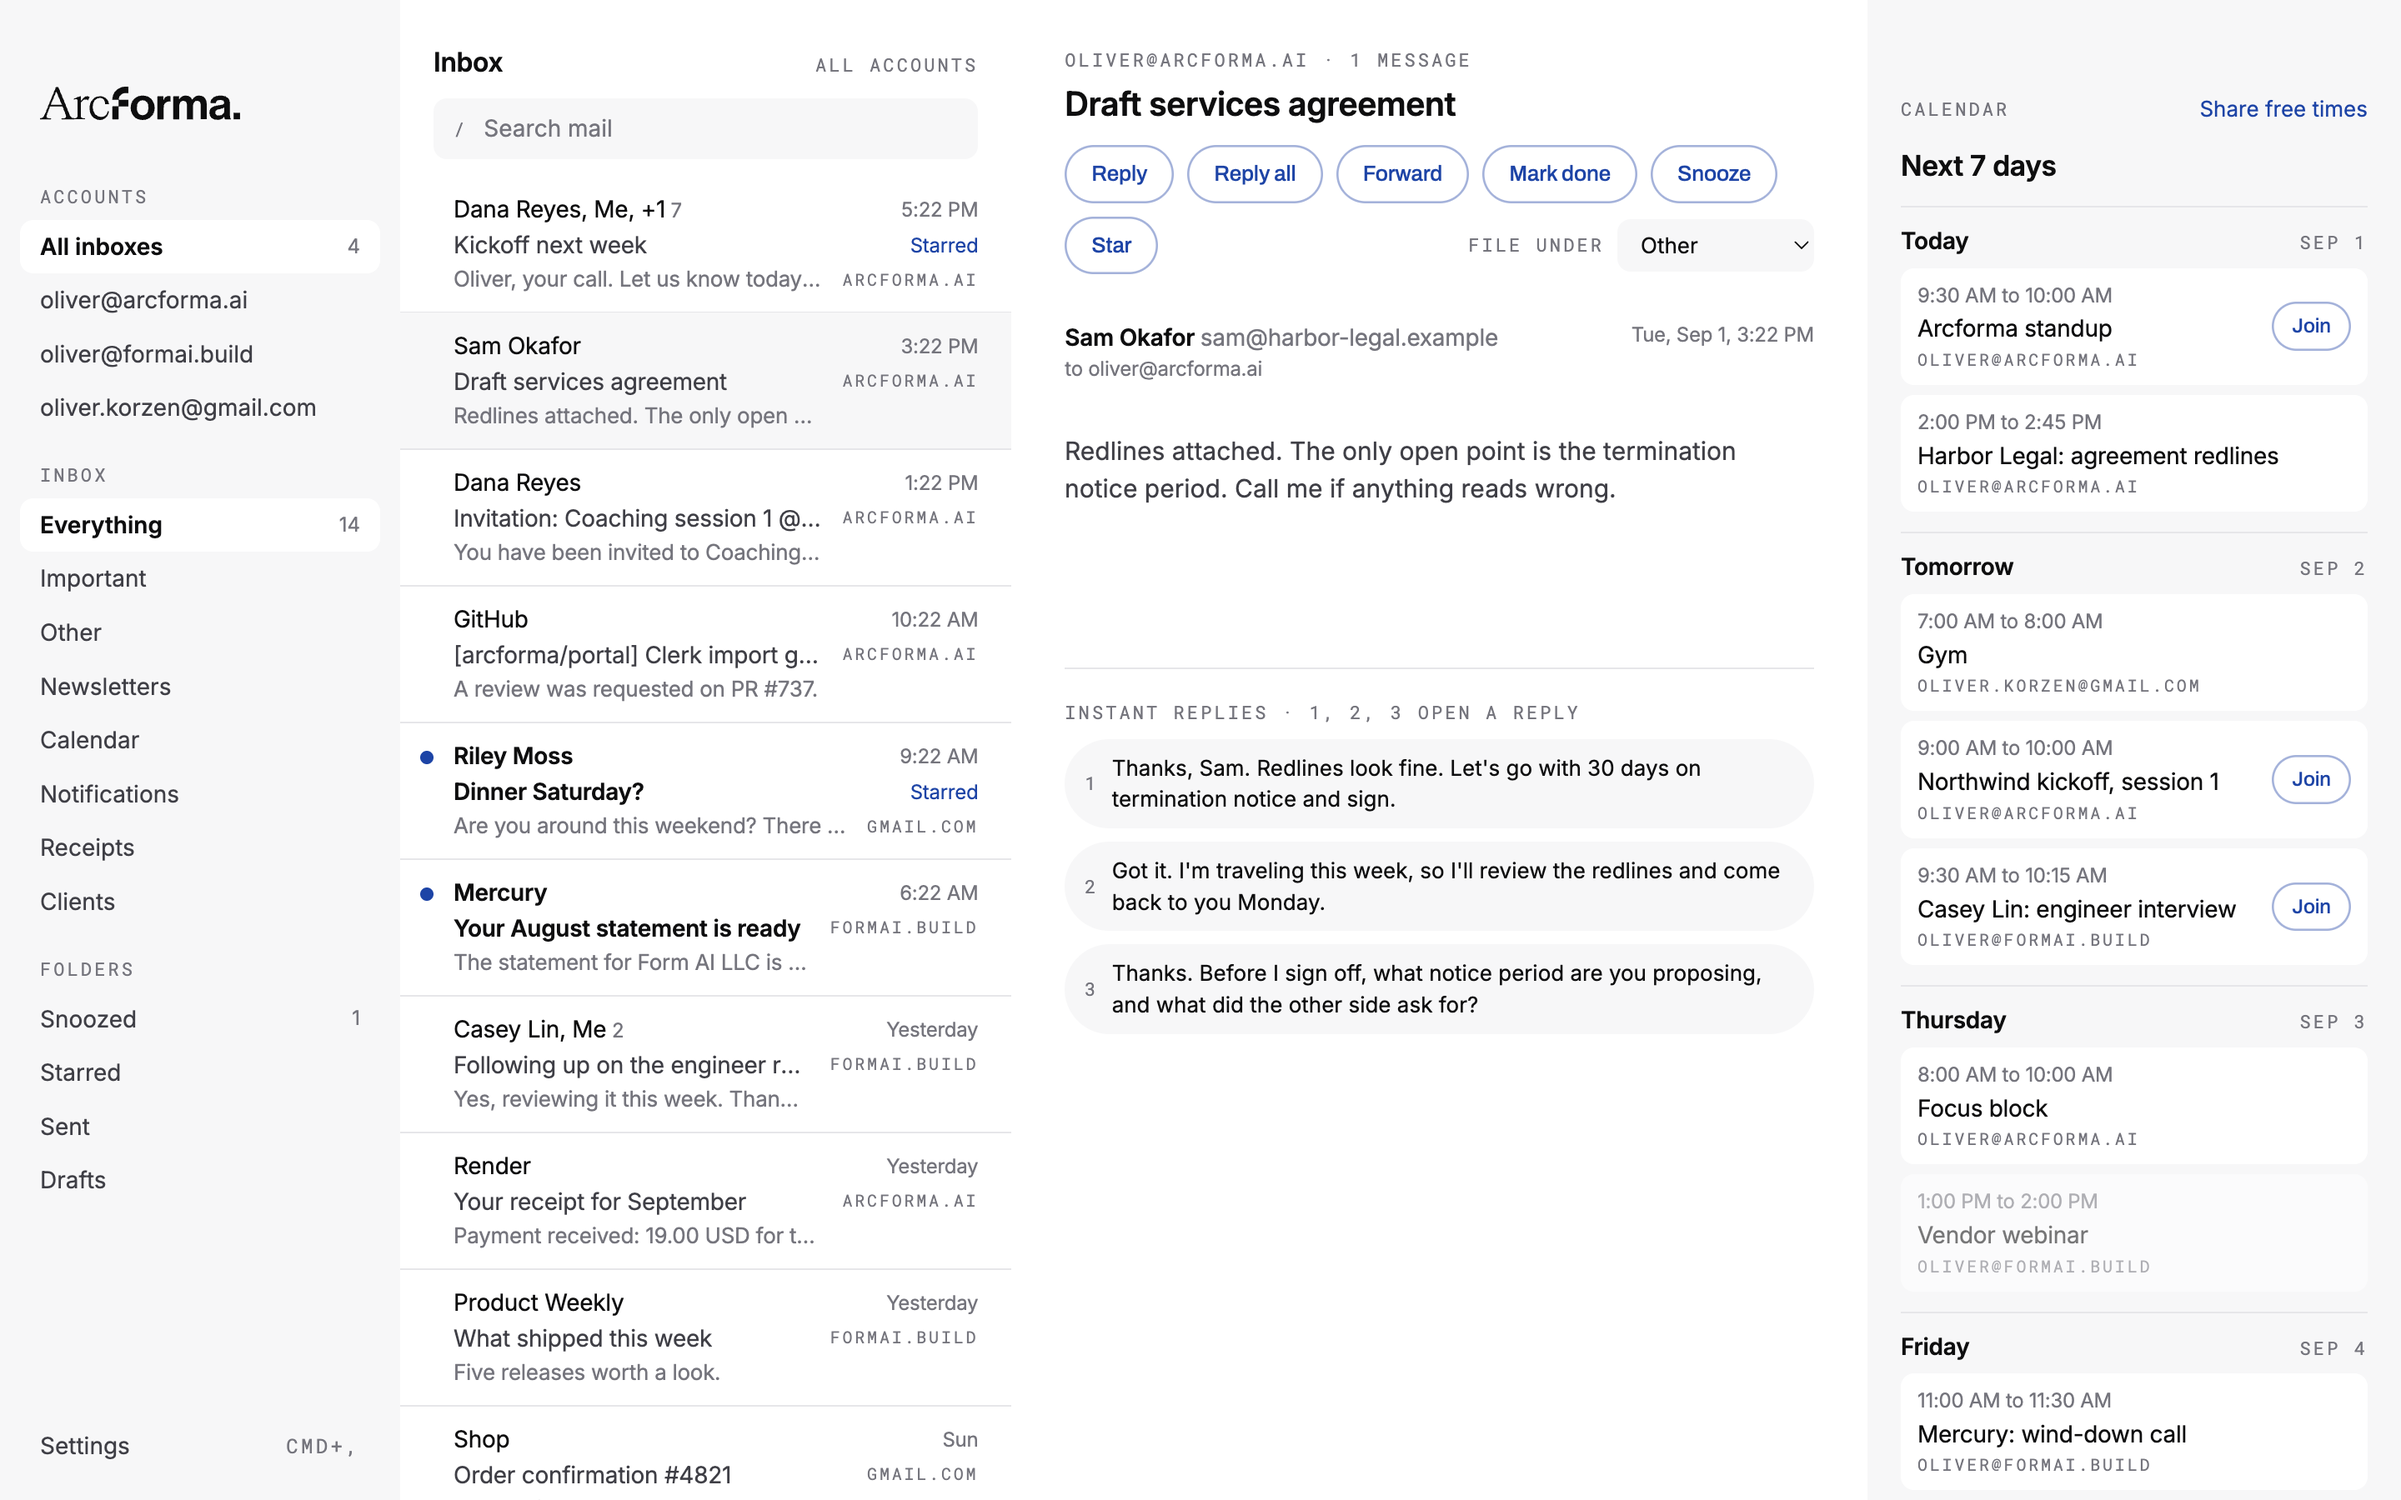
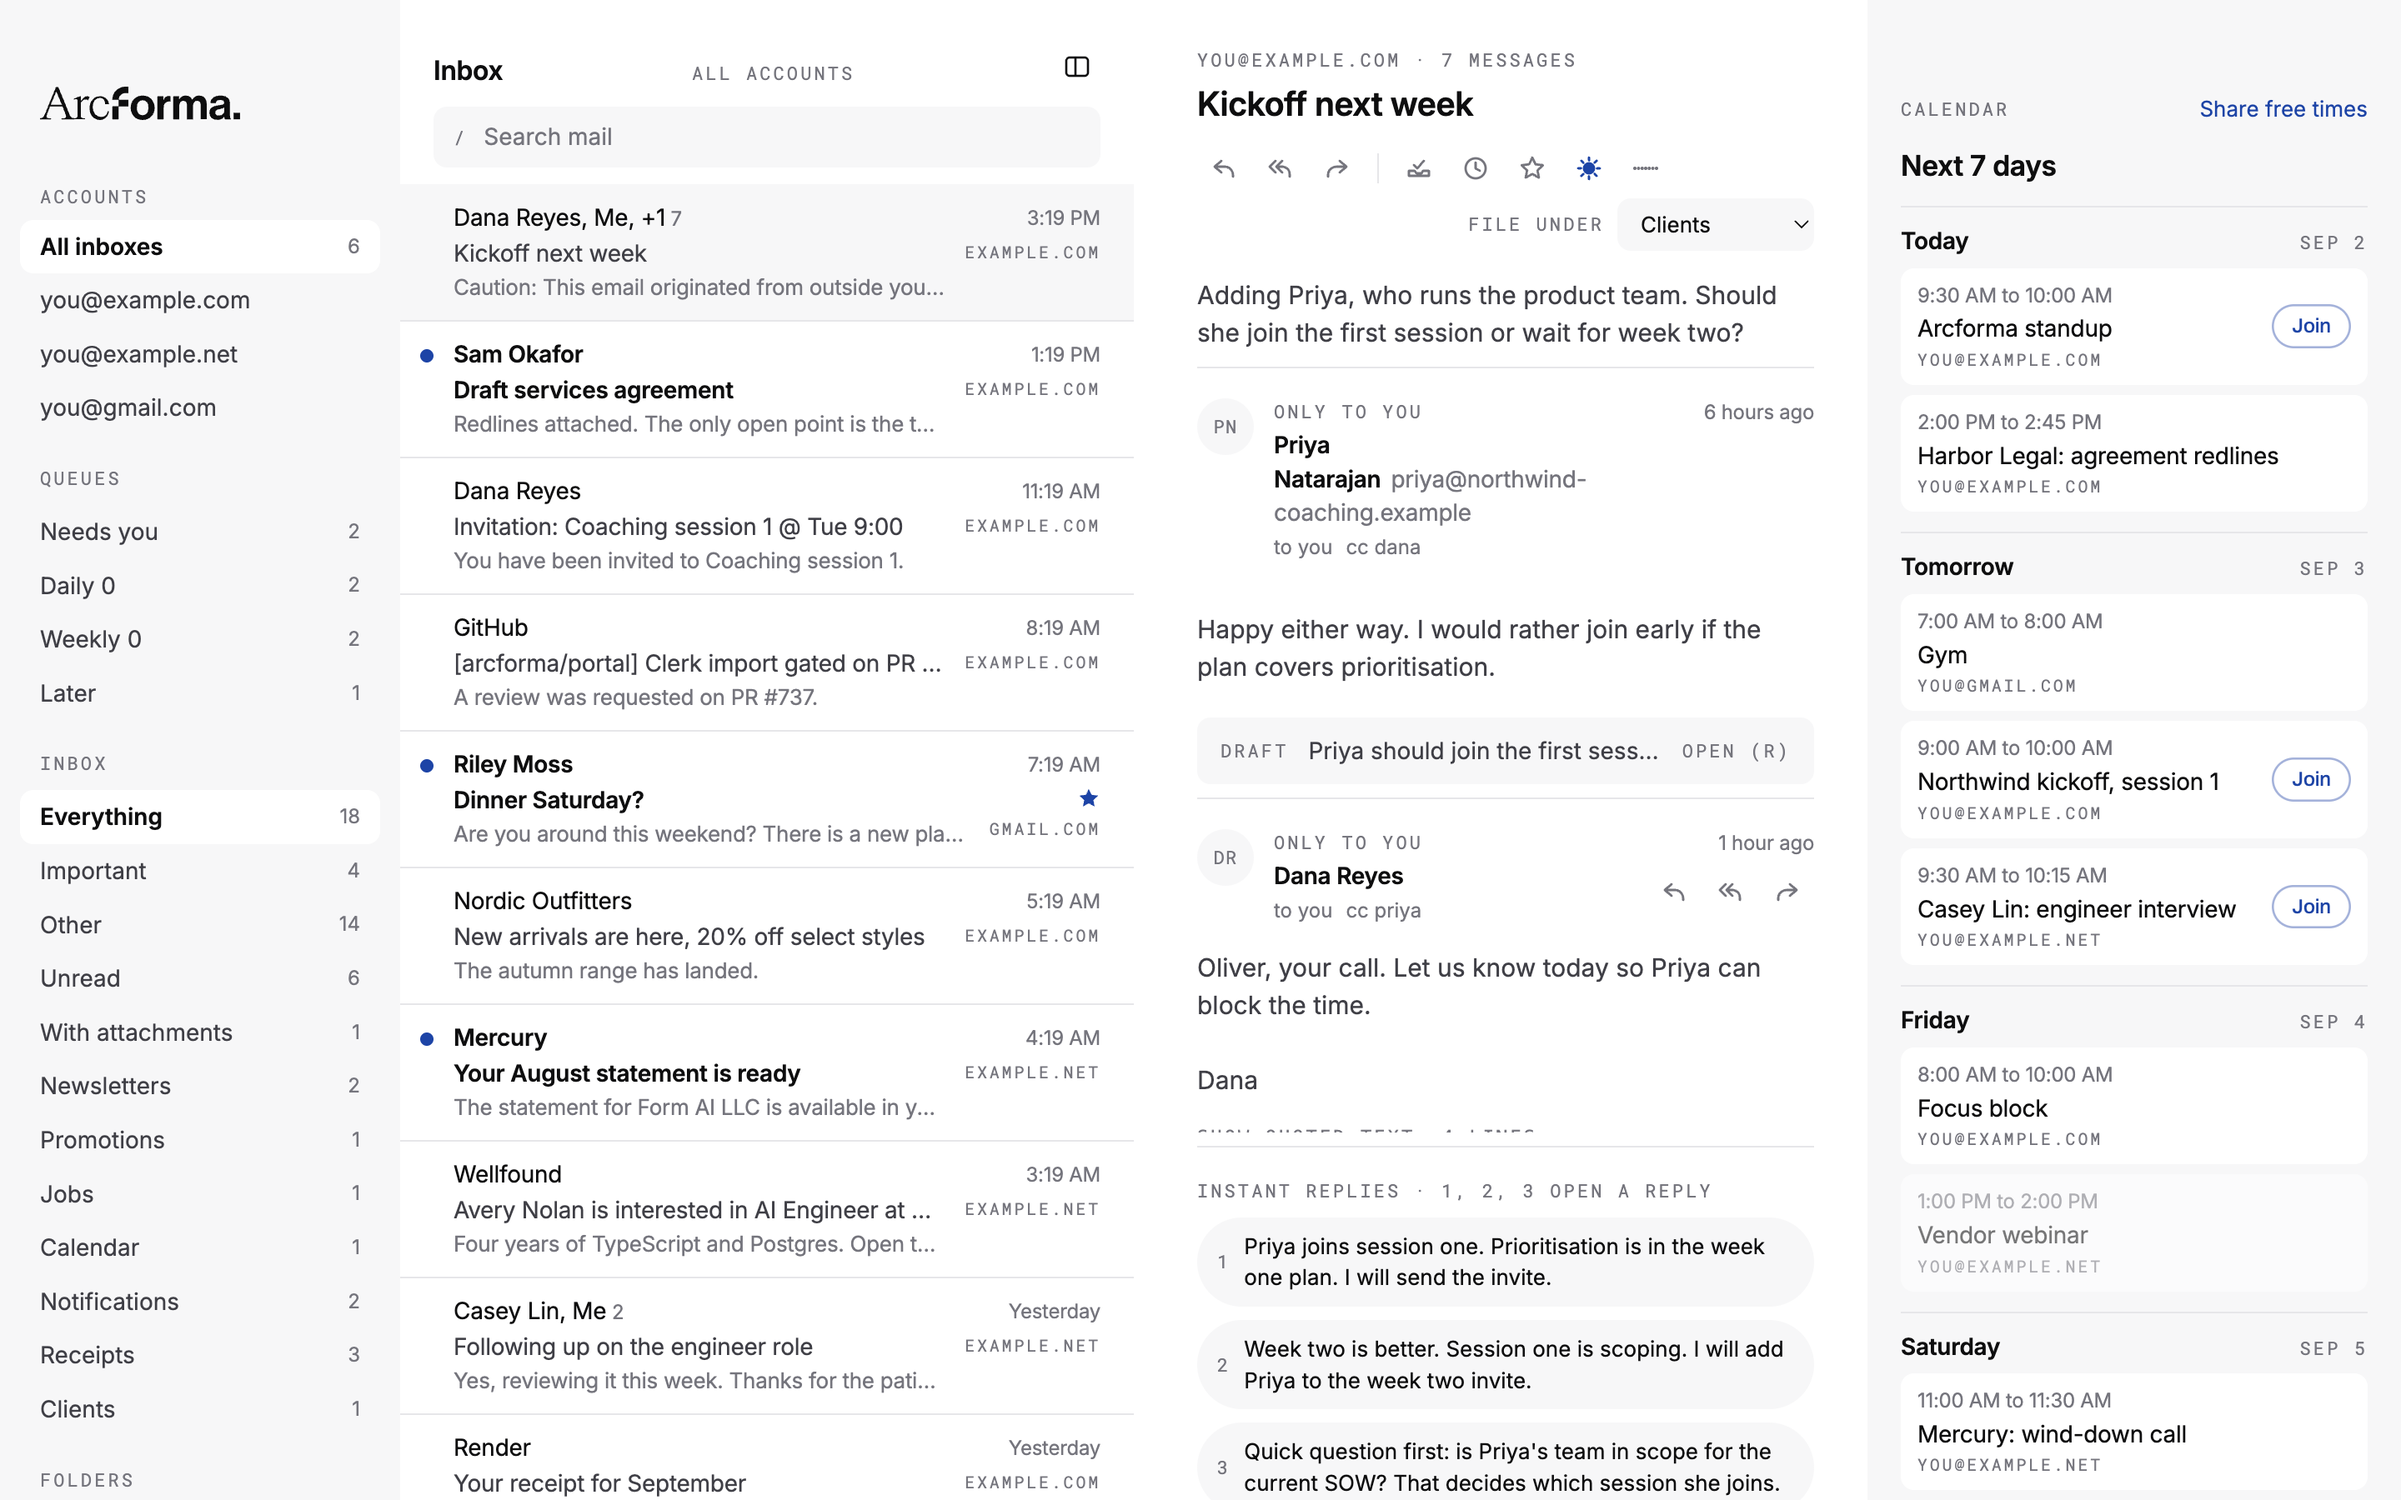
Accounts come from configuration, not from the source
The three mailboxes were hard-coded in accounts.ts, the fixtures, and the
tests. Accounts are now read from oauth-clients.json through a new
loadAccountIdentities, which lists an account whose client id is still blank
so it can show as waiting rather than vanish. Every address in the tree is a
placeholder, and the committed screenshots were regenerated from the new
fixture. Also shows the Needs you reason on the thread head.

diff --git a/apps/desktop/electron/accounts.ts b/apps/desktop/electron/accounts.ts
@@ -2,7 +2,7 @@
 // oauth-clients.json, stored refresh tokens, and one GmailClient per account.
 
 import { shell } from "electron";
-import { GmailClient, createTokenSource, getOwners, loadOAuthClients, runLoopbackFlow, type OAuthClientConfig } from "@arcforma/gmail";
+import { GmailClient, createTokenSource, getOwners, loadOAuthClients, runLoopbackFlow, type OAuthClientConfig, loadAccountIdentities } from "@arcforma/gmail";
 import { getAccount, listAccounts, updateAccount, upsertAccount, type AccountRow, type Db } from "@arcforma/store";
 import { clearAccountOnSignOut, markAccountExpired } from "./auth-state.js";
 import { emit } from "./events.js";
@@ -12,11 +12,9 @@ import { deleteRefreshToken, hasRefreshToken, loadRefreshToken, saveRefreshToken
 import type { AccountInfo, AccountsStatus } from "../shared/types.js";
 
 /** The accounts Arcforma Mail is built for. oauth-clients.json supplies the client ids. */
-export const KNOWN_ACCOUNTS: Array<{ id: string; email: string; consent: "internal" | "external" }> = [
-  { id: "arcforma", email: "you@example.com", consent: "internal" },
-  { id: "formai", email: "you@example.net", consent: "internal" },
-  { id: "personal", email: "you@gmail.com", consent: "external" },
-];
+// Accounts are whatever oauth-clients.json names. Nothing about whose mailbox this is belongs in
+// the source: see docs/google-cloud-setup.md for the file, and README for why each account needs
+// its own OAuth client.
 
 export class AccountRegistry {
   private configs = new Map<string, OAuthClientConfig>();
@@ -38,7 +36,7 @@ export class AccountRegistry {
       this.configs = new Map();
       this.configError = (err as Error).message;
     }
-    for (const k of KNOWN_ACCOUNTS) upsertAccount(this.db, k);
+    for (const k of loadAccountIdentities(oauthClientsPath())) upsertAccount(this.db, { id: k.id, email: k.email, consent: k.consent });
     for (const c of this.configs.values()) upsertAccount(this.db, { id: c.id, email: c.email, consent: c.consent });
     // A token that no longer decrypts or a config that vanished means signed out.
     for (const row of listAccounts(this.db)) {

diff --git a/packages/gmail/src/oauth.test.ts b/packages/gmail/src/oauth.test.ts
@@ -3,7 +3,7 @@ import assert from "node:assert/strict";
 import http from "node:http";
 import net from "node:net";
 import { AuthExpiredError } from "./errors.js";
-import { SCOPES, createTokenSource, runLoopbackFlow, type TokenTransporter, loadOAuthClients } from "./oauth.js";
+import { SCOPES, createTokenSource, runLoopbackFlow, type TokenTransporter, loadOAuthClients, loadAccountIdentities } from "./oauth.js";
 
 interface Seen {
   url: string;
@@ -197,5 +197,24 @@ test("loadOAuthClients treats blank credentials as template rows, not errors", a
   assert.equal(loaded[0].consent, "external");
   fs.writeFileSync(file, JSON.stringify({ accounts: [{ id: "a", clientId: "x", clientSecret: "y" }] }));
   assert.throws(() => loadOAuthClients(file), /missing "email"/);
+  fs.unlinkSync(file);
+});
+
+test("loadAccountIdentities lists every named account, configured or not, and tolerates a missing file", async () => {
+  const fs = await import("node:fs");
+  const os = await import("node:os");
+  const path = await import("node:path");
+  const file = path.join(os.tmpdir(), `ids-${process.pid}.json`);
+  fs.writeFileSync(file, JSON.stringify({ accounts: [
+    { id: "work", email: "Person@Example.com", clientId: "id", clientSecret: "s", consent: "internal" },
+    { id: "waiting", email: "other@example.com", clientId: "", clientSecret: "", consent: "external" },
+    { id: "", email: "nameless@example.com" },
+  ] }));
+  const ids = loadAccountIdentities(file);
+  assert.deepEqual(ids.map((a) => [a.id, a.email, a.configured, a.consent]), [
+    ["work", "person@example.com", true, "internal"],
+    ["waiting", "other@example.com", false, "external"],
+  ]);
+  assert.deepEqual(loadAccountIdentities(path.join(os.tmpdir(), "no-such-file.json")), [], "a missing file is not an error");
   fs.unlinkSync(file);
 });

diff --git a/packages/gmail/src/oauth.ts b/packages/gmail/src/oauth.ts
@@ -48,6 +48,38 @@ export function defaultOAuthClientsPath(): string {
 }
 
 /** Reads oauth-clients.json: {"accounts":[{id,email,clientId,clientSecret,consent}]}. */
+/** Who the app knows about, credentials or not. A template row with a blank id still gets a sidebar row. */
+export interface AccountIdentity {
+  id: string;
+  email: string;
+  consent: "internal" | "external";
+  configured: boolean;
+}
+
+/**
+ * Every account named in the clients file. Unlike loadOAuthClients this keeps entries whose
+ * credentials are still blank, so the app can list an account that is waiting for its client id
+ * rather than pretending it does not exist. Returns an empty list when the file is missing.
+ */
+export function loadAccountIdentities(file = defaultOAuthClientsPath()): AccountIdentity[] {
+  let parsed: unknown;
+  try { parsed = JSON.parse(fs.readFileSync(file, "utf8")); } catch { return []; }
+  const accounts = (parsed as { accounts?: unknown[] })?.accounts;
+  if (!Array.isArray(accounts)) return [];
+  const out: AccountIdentity[] = [];
+  for (const raw of accounts) {
+    const a = raw as Partial<OAuthClientConfig>;
+    if (typeof a.id !== "string" || !a.id || typeof a.email !== "string" || !a.email) continue;
+    out.push({
+      id: a.id,
+      email: a.email.toLowerCase(),
+      consent: a.consent === "external" ? "external" : "internal",
+      configured: Boolean(a.clientId && a.clientSecret),
+    });
+  }
+  return out;
+}
+
 export function loadOAuthClients(file = defaultOAuthClientsPath()): OAuthClientConfig[] {
   if (!fs.existsSync(file)) {
     throw new OAuthConfigError(`No OAuth clients at ${file}. Create the file with one entry per account before signing in.`);

diff --git a/apps/desktop/src/components/ReadingPane.tsx b/apps/desktop/src/components/ReadingPane.tsx
@@ -121,6 +121,9 @@ export function ReadingPane() {
             <button data-tip="Asks Gmail for the message bodies again." onClick={() => void refreshOpen()}>Fetch the messages again</button>
           </span>
         ) : null}
+        {t.band === "needs_you" && t.attentionReason ? (
+          <span className="af-mono eyebrow-flag" data-tip="Why this thread is in Needs you. Re-file it if the app has this wrong; that teaches the score.">{t.attentionReason}</span>
+        ) : null}
         {t.noReplyBy ? <span className="af-mono eyebrow-flag">No reply by {eyebrowDate(t.noReplyBy)}</span> : null}
         {t.wakeAt ? <span className="af-mono eyebrow-flag">Snoozed · back {eyebrowDate(t.wakeAt, true)}</span> : null}
         {t.unsubscribeState === "sent" ? <span className="af-mono eyebrow-flag">Unsubscribed</span> : null}
